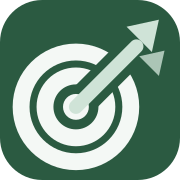
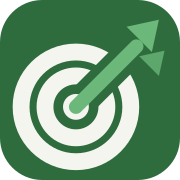
Adopt the new palette: paper, sand, and three greens
App chrome, chips, logo and Clerk's sign-in box move to #f5f5f0 / #e8e8dc /
#2e6b3d / #4a8b5a / #6bb87a. Chart series become #1f9d55 and #e0651f and the
funnel ramp uses the brand greens; both were checked with the dataviz
validator against the new surface.

Changed region(s): [[0.3611, 0.1111, 0.9167, 0.6389]]

diff --git a/app/globals.css b/app/globals.css
@@ -1,16 +1,23 @@
 :root {
-  --xl-green: #217346;
-  --xl-green-dark: #185c37;
-  --xl-green-tint: #e3f1e8;
-  --grid-line: #e1e1e1;
-  --head-bg: #f3f3f3;
-  --head-line: #cfcfcf;
-  --head-text: #444;
-  --text: #1f1f1f;
-  --muted: #6b6b6b;
+  /* Brand palette: warm off-white, sand, and three greens. */
+  --paper: #f5f5f0;
+  --sand: #e8e8dc;
+  --green: #2e6b3d;
+  --green-mid: #4a8b5a;
+  --green-light: #6bb87a;
+
+  --xl-green: var(--green);
+  --xl-green-dark: #235231;
+  --xl-green-tint: #dfece3;
+  --grid-line: var(--sand);
+  --head-bg: var(--paper);
+  --head-line: #d8d8ca;
+  --head-text: #4a4a42;
+  --text: #1d231f;
+  --muted: #6b6b60;
   --bg: #ffffff;
-  --chrome: #f7f7f7;
-  --due: #c42b1c;
+  --chrome: var(--paper);
+  --due: #c0392b;
   --row-h: 24px;
   --rownum-w: 44px;
   --font: "Aptos", "Calibri", "Segoe UI", -apple-system, BlinkMacSystemFont, system-ui, sans-serif;
@@ -143,14 +150,14 @@ button, input, select, textarea { font: inherit; color: inherit; }
 .grid thead tr.letters th { top: 0; height: 22px; text-align: center; font-size: 12px; }
 .grid thead tr.headers th {
   top: 22px;
-  background: #fafafa;
+  background: #fbfbf7;
   color: var(--text);
   font-weight: 700;
   cursor: pointer;
   user-select: none;
   border-bottom: 1px solid var(--head-line);
 }
-.grid thead tr.headers th:hover { background: #f0f0f0; }
+.grid thead tr.headers th:hover { background: #eeeee4; }
 .grid thead th.hl { background: var(--xl-green-tint); color: var(--xl-green-dark); box-shadow: inset 0 -2px 0 var(--xl-green); }
 .sort { color: var(--xl-green); font-size: 10px; }
 
@@ -170,12 +177,12 @@ button, input, select, textarea { font: inherit; color: inherit; }
 .grid thead .corner, .grid thead .rownum { z-index: 4; }
 .grid .rownum.hl { background: var(--xl-green-tint); color: var(--xl-green-dark); box-shadow: inset -2px 0 0 var(--xl-green); }
 .grid .rownum.has-row { cursor: pointer; }
-.grid .rownum.has-row:hover { background: #e6e6e6; }
+.grid .rownum.has-row:hover { background: #e3e3d5; }
 
 .grid .sticky-col { position: sticky; left: var(--rownum-w); z-index: 1; background: var(--bg); }
 .grid thead .sticky-col { z-index: 3; }
 .grid thead tr.letters th.sticky-col { background: var(--head-bg); }
-.grid thead tr.headers th.sticky-col { background: #fafafa; }
+.grid thead tr.headers th.sticky-col { background: #fbfbf7; }
 .grid thead tr.letters th.sticky-col.hl { background: var(--xl-green-tint); }
 .grid td.sticky-col { box-shadow: 1px 0 0 var(--head-line); }
 
@@ -260,7 +267,7 @@ button, input, select, textarea { font: inherit; color: inherit; }
   cursor: pointer;
 }
 .tab:first-child { border-left: 1px solid var(--head-line); }
-.tab:hover { background: #ececec; }
+.tab:hover { background: #eaeade; }
 .tab.active {
   background: #fff;
   color: var(--xl-green-dark);
@@ -273,7 +280,7 @@ button, input, select, textarea { font: inherit; color: inherit; }
   font-weight: 600;
   padding: 0 6px;
   border-radius: 8px;
-  background: #e6e6e6;
+  background: #e3e3d5;
   color: var(--muted);
 }
 .tab.active .tab-count { background: var(--xl-green-tint); color: var(--xl-green-dark); }
@@ -423,20 +430,20 @@ button, input, select, textarea { font: inherit; color: inherit; }
 /* Palette: validated with the dataviz skill's validator against #ffffff —
    categorical slots 1–2 (all checks pass) and a 5-step ordinal blue ramp. */
 .viz-root {
-  --series-1: #2a78d6;
-  --series-2: #eb6834;
-  --ord-1: #86b6ef;
-  --ord-2: #5598e7;
-  --ord-3: #2a78d6;
-  --ord-4: #1c5cab;
-  --ord-5: #104281;
+  --series-1: #1f9d55;   /* On-Campus */
+  --series-2: #e0651f;   /* Off-Campus */
+  --ord-1: #6bb87a;
+  --ord-2: #4a8b5a;
+  --ord-3: #2e6b3d;
+  --ord-4: #215030;
+  --ord-5: #143520;
   --viz-surface: #ffffff;
-  --viz-page: #f7f7f7;
-  --viz-ink: #0b0b0b;
-  --viz-ink-2: #52514e;
-  --viz-muted: #898781;
-  --viz-grid: #e1e0d9;
-  --viz-base: #c3c2b7;
+  --viz-page: var(--paper);
+  --viz-ink: #1d231f;
+  --viz-ink-2: #4a4a42;
+  --viz-muted: #6b6b60;
+  --viz-grid: var(--sand);
+  --viz-base: #c9c9ba;
   --viz-ring: rgba(11, 11, 11, 0.10);
 }
 .charts {
@@ -449,7 +456,7 @@ button, input, select, textarea { font: inherit; color: inherit; }
 .seg { display: inline-flex; align-items: center; gap: 2px; background: var(--viz-surface); border: 1px solid var(--viz-ring); border-radius: 6px; padding: 2px; }
 .seg-label { font-size: 12px; color: var(--viz-muted); padding: 0 8px 0 6px; }
 .seg-btn { border: 0; background: transparent; padding: 4px 10px; border-radius: 4px; cursor: pointer; color: var(--viz-ink-2); }
-.seg-btn:hover { background: #f1f1ef; }
+.seg-btn:hover { background: #eeeee6; }
 .seg-btn.on { background: var(--xl-green-tint); color: var(--xl-green-dark); font-weight: 600; }
 .viz-note { color: var(--viz-muted); font-size: 12px; margin: 0; }
 
@@ -465,7 +472,7 @@ button, input, select, textarea { font: inherit; color: inherit; }
 .viz-card h2 { margin: 0; font-size: 14px; font-weight: 600; color: var(--viz-ink); }
 .viz-card-head p { margin: 2px 0 0; font-size: 12px; color: var(--viz-muted); }
 .viz-toggle { border: 1px solid var(--viz-ring); background: var(--viz-surface); color: var(--viz-ink-2); border-radius: 4px; padding: 2px 10px; font-size: 12px; cursor: pointer; }
-.viz-toggle:hover { background: #f1f1ef; }
+.viz-toggle:hover { background: #eeeee6; }
 
 /* horizontal bars: <=24px thick, 4px rounded data-end, square at the baseline */
 .hbars { display: flex; flex-direction: column; gap: 8px; }
@@ -545,7 +552,7 @@ body:has(.settings) { overflow: auto; }
 .settings-card p { margin: 0; color: var(--muted); line-height: 1.5; }
 .settings-card p b { color: var(--text); }
 .settings-status { font-weight: 600; color: var(--text) !important; }
-.settings-warn { background: #fff8e6; border: 1px solid #f3dca5; border-radius: 6px; padding: 8px 10px; color: #7a5a00 !important; }
+.settings-warn { background: #fff8e6; border: 1px solid #e6d6a8; border-radius: 6px; padding: 8px 10px; color: #7a5a00 !important; }
 .settings-error { background: #fdecea; border: 1px solid #f1c4bf; color: var(--due); border-radius: 6px; padding: 8px 10px; margin: 0; }
 .settings-steps { margin: 0; padding-left: 20px; color: var(--muted); line-height: 1.7; }
 .settings-steps code { background: var(--head-bg); padding: 1px 5px; border-radius: 3px; font-size: 12px; color: var(--text); word-break: break-all; }

diff --git a/lib/format.js b/lib/format.js
@@ -1,18 +1,18 @@
 // Shared display helpers for the sheet and the details drawer.
 
 export const CHIP = {
-  Wishlist: ['#eef0f3', '#4b5563'],
-  Applied: ['#dbeafe', '#1d4ed8'],
-  'OA / Assessment': ['#ede9fe', '#6d28d9'],
-  Interviewing: ['#fef3c7', '#a16207'],
-  Offer: ['#dcfce7', '#15803d'],
-  Accepted: ['#bbf7d0', '#166534'],
-  Rejected: ['#fee2e2', '#b91c1c'],
-  Withdrawn: ['#f3eee8', '#7c5e3c'],
-  Ghosted: ['#f1f1f1', '#6b7280'],
-  High: ['#fee2e2', '#b91c1c'],
-  Medium: ['#fef3c7', '#a16207'],
-  Low: ['#eef0f3', '#4b5563'],
+  Wishlist: ['#ecece1', '#5b5b50'],
+  Applied: ['#dde9f7', '#1d4ed8'],
+  'OA / Assessment': ['#e7e2f6', '#5b21b6'],
+  Interviewing: ['#f7ebcf', '#8a5a08'],
+  Offer: ['#daf0e0', '#1f7a3f'],
+  Accepted: ['#c6e9d1', '#1c5a33'],
+  Rejected: ['#f7dedb', '#a32f22'],
+  Withdrawn: ['#efe9df', '#6f5a3e'],
+  Ghosted: ['#eeeee6', '#6b6b60'],
+  High: ['#f7dedb', '#a32f22'],
+  Medium: ['#f7ebcf', '#8a5a08'],
+  Low: ['#ecece1', '#5b5b50'],
 };
 
 // ---- date helpers (dates are 'YYYY-MM-DD' strings; never go through UTC) ----

diff --git a/lib/clerk-appearance.js b/lib/clerk-appearance.js
@@ -1,14 +1,14 @@
 // Clerk's sign-in box, in the tracker's green.
 export const appearance = {
   variables: {
-    colorPrimary: '#217346',
-    colorText: '#1f1f1f',
+    colorPrimary: '#2e6b3d',
+    colorText: '#1d231f',
     colorBackground: '#ffffff',
     borderRadius: '6px',
     fontFamily: 'system-ui, -apple-system, "Segoe UI", sans-serif',
   },
   elements: {
     card: { boxShadow: '0 10px 40px rgba(0,0,0,0.14)' },
-    footerActionLink: { color: '#217346' },
+    footerActionLink: { color: '#2e6b3d' },
   },
 };

diff --git a/app/Logo.js b/app/Logo.js
@@ -7,11 +7,11 @@
 // `badge` draws the rounded green square behind it (app icon, sign-in mark).
 
 export const BRAND = {
-  green: '#2b5a41',
-  greenDeep: '#1f4230',
-  ring: '#f4f8f5',
-  dart: '#cfe3d7',
-  dartDark: '#4e8b6a',
+  green: '#2e6b3d',
+  greenDeep: '#235231',
+  ring: '#f5f5f0',
+  dart: '#6bb87a',
+  dartDark: '#4a8b5a',
 };
 
 export default function Logo({ size = 28, tone = 'light', badge = false, title = 'Job Tracker' }) {

diff --git a/brand/README.md b/brand/README.md
@@ -8,7 +8,19 @@ The mark is a bullseye with a dart: aiming at a role, and hitting it.
 | `icon-white.svg` / `-512.png` / `-1024.png` | the same mark on white, for slides and print |
 | `mark-transparent.svg` / `-512.png` / `-1024.png` | mark only, no background square |
 
-Colours: deep green `#2b5a41`, ring `#f4f8f5`, dart `#cfe3d7` (light) or `#4e8b6a` (on white).
+## Palette
+
+| Token | Hex | Used for |
+|---|---|---|
+| paper | `#f5f5f0` | page background, header rows |
+| sand | `#e8e8dc` | gridlines, borders |
+| green | `#2e6b3d` | app bar, buttons, the logo |
+| green-mid | `#4a8b5a` | hovers, the dart on white |
+| green-light | `#6bb87a` | the dart on green, lightest funnel step |
+
+Charts use `#1f9d55` (On-Campus) and `#e0651f` (Off-Campus): a pair checked for
+colourblind separation against the `#f5f5f0` surface. The funnel ramp is
+`#6bb87a → #4a8b5a → #2e6b3d → #215030 → #143520`.
 The live version is `app/Logo.js`; `app/icon.svg` is the browser tab icon and
 `app/apple-icon.png` the phone home-screen icon. Change `app/Logo.js` and re-run
 `scripts/export-logo.mjs` to regenerate these files.
